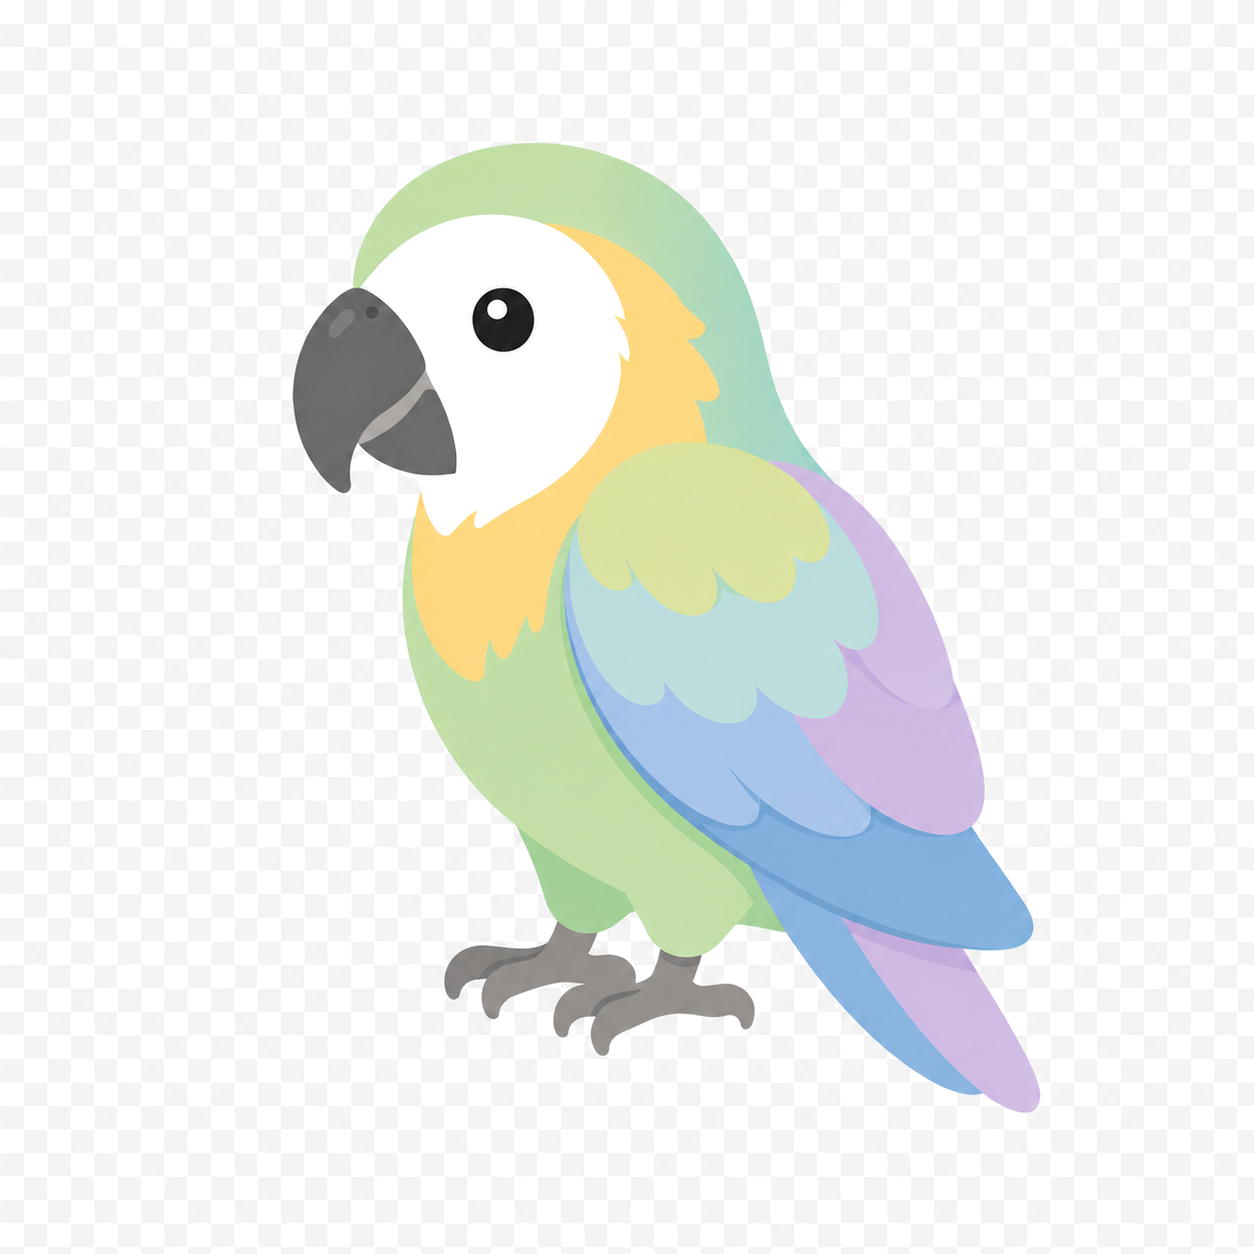
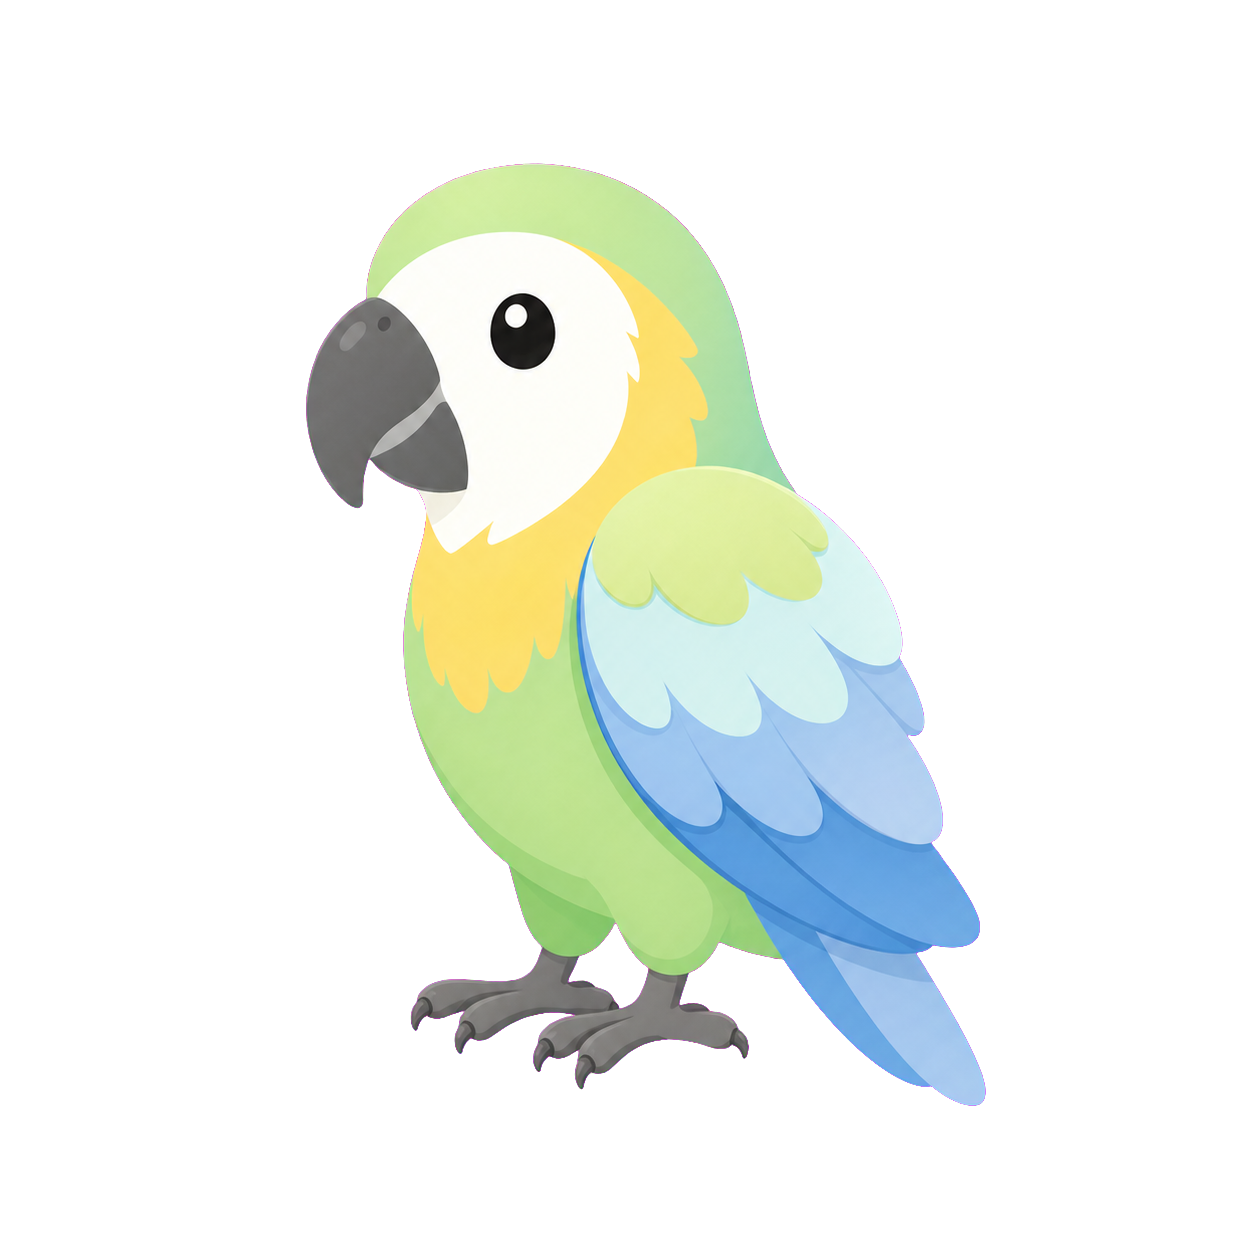
Polish home card parrot

Changed region(s): [[0.2177, 0.0933, 0.8397, 0.9019], [0.3732, 0.2177, 0.4665, 0.311], [0.5287, 0.1555, 0.5598, 0.1866]]

diff --git a/app/components/home-capture-card.tsx b/app/components/home-capture-card.tsx
@@ -32,12 +32,12 @@ export default function HomeCaptureCard({ note, onOpenNote }: Props) {
         <img
           src="/lingi-parrot.png"
           alt="Voca parrot"
-          className="pointer-events-none absolute right-[16px] top-[12px] h-[64px] w-[56px] drop-shadow-[0_10px_20px_rgba(0,0,0,0.08)] parrot-bob"
+          className="pointer-events-none absolute right-[28px] top-[26px] z-10 h-[64px] w-[64px] object-contain drop-shadow-[0_8px_14px_rgba(0,0,0,0.08)]"
         />
         <div className="mt-3 self-start text-[12px] font-medium leading-none text-[#0E6F74]">{dateText}</div>
 
         <div className="mt-4 flex min-h-0 flex-1 flex-col rounded-[18px] bg-[rgba(221,239,233,0.82)] p-6">
-          <div className="pt-1 text-[16px] leading-[28px] text-[#61777B]">
+          <div className="pt-1 text-left text-[13px] leading-[28px] text-[#61777B]">
             {note.trim() ? note.trim() : 'Type here to catch what you want to remember...'}
           </div>
         </div>
